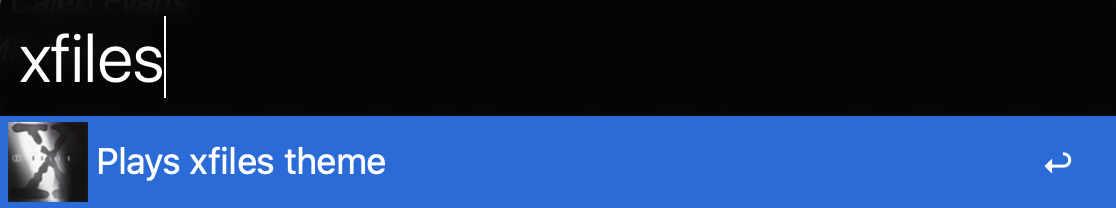
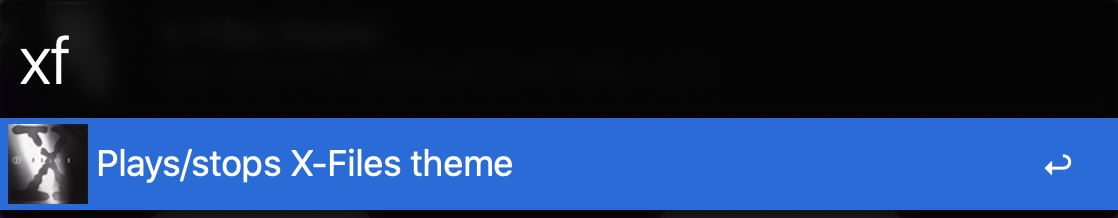
Update readme, .alfredworklow, screenshot.

Changed region(s): [[0.0, 0.5192, 1.0, 1.0], [0.0, 0.1442, 0.1523, 0.4038], [0.914, 0.7212, 0.9749, 0.8365]]

diff --git a/README.md b/README.md
@@ -11,3 +11,9 @@ An Alfred workflow for adding a dramatic effect by playing the X-Files theme.
 
 - macOS Catalina and above  
 - [X-Files theme song](https://music.apple.com/ru/album/the-x-files-theme/497188575?i=497188576&l=en) added to the Music library
+
+## Usage
+
+- Type ```xfiles``` to start playing
+
+- Type ```xfiles``` again to stop playing
